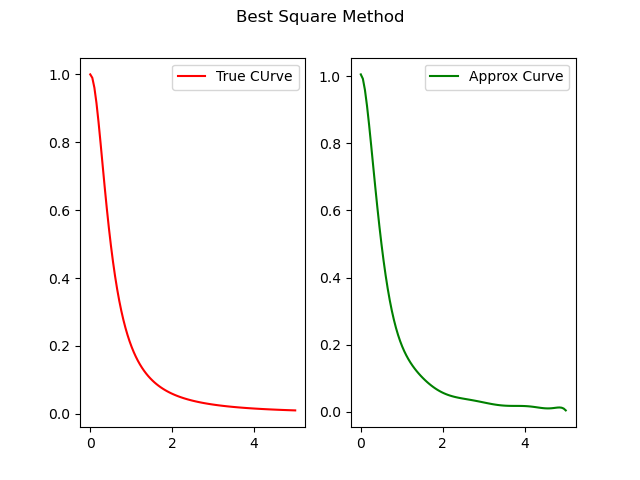
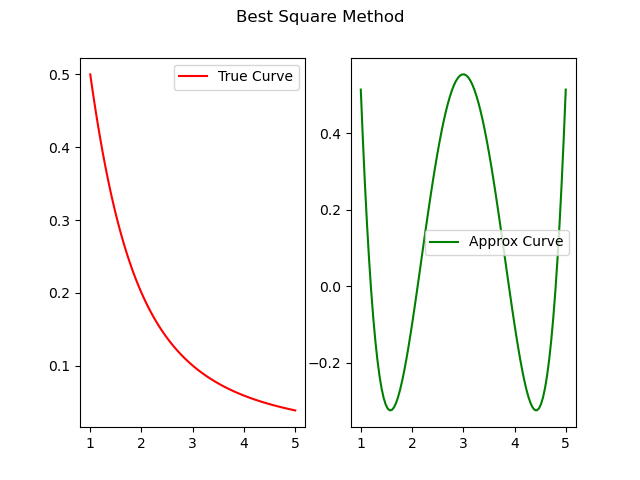
更新最小二乘法

diff --git a/example.py b/example.py
@@ -1,5 +1,7 @@
+from random import sample
 from approx import TargetFn
 from approx.best_square import BestSquare
+from approx.least_squares import LeastSquare
 import point
 import interp
 from draw import Drawer
@@ -109,17 +111,30 @@ def test_hermite():
 
 def test_best_square(a: float, b: float, c: int, k: int, n: int):
     best_square = BestSquare(k, a, b, c)
-    best_square.fit()
+    # best_square.fit()
+    best_square.legrand_fit()
     samples = point.random_x(a, b, n)
     target_fn = TargetFn(c)
     for sample in samples:
         std_val = target_fn.fn(sample)
-        app_val = best_square.cal(sample)
+        app_val = best_square.cal((1 / (b - a)) * (2 * sample - a - b))
         err = abs(std_val - app_val)
         print("标准函数计算的结果为：{}, 逼近函数计算的结果为: {}, 误差为: {}".format(std_val, app_val, err))
     drawer = Drawer()
-    drawer.cmp_draw(a, b, target_fn.fn, best_square.cal, 'Best Square Method')
+    drawer.legendre_cmp_draw(a, b, target_fn.fn, best_square.cal, 'Best Square Method')
 
+def test_least_square(a: float, b: float, c: int, n: int):
+    samples = point.approx_fixed_sample(n, a, b, c)
+    # print("samples: {}".format(samples))
+    # print(samples)
+    least_square = LeastSquare(a, b, c, samples)
+    least_square.fit()
+    other_samples = point.approx_random_sample(10, a, b, c)
+    for sample in other_samples:
+        std_val = sample.y
+        app_val = least_square.cal(sample.x)
+        err = abs(std_val - app_val)
+        print("标准函数计算的结果为：{}, 逼近函数计算的结果为: {}, 误差为: {}".format(std_val, app_val, err))
 
 
 def example():
@@ -128,7 +143,8 @@ def example():
     # test_newton()
     # test_piecelinear()
     # test_hermite()
-    test_best_square(0, 5, 4, 10, 10)
+    # test_best_square(1, 5, 1, 4, 10)
+    test_least_square(1, 5, 1, 5)
 
 if __name__ == '__main__':
     example()

diff --git a/approx/best_square.py b/approx/best_square.py
@@ -1,5 +1,7 @@
-import numpy as np 
-from . import inner_product_2, inner_product_3
+import numpy as np
+from scipy.special import legendre
+from scipy import integrate
+from . import TargetFn, inner_product, inner_product_2, inner_product_3, inner_product_4, mul_fn
 
 class BestSquare:
     def __init__(self, k: int, a: float, b: float, c: int):
@@ -9,6 +11,7 @@ class BestSquare:
         self.a = a
         self.b = b
         self.c = c
+        self.f = np.poly1d([0])
 
     def _make_matrix(self):
         # 建立矩阵
@@ -21,7 +24,17 @@ class BestSquare:
             self.right.append(res)
             self.left.append(row)
 
-
+    def legrand_fit(self):
+        # 使用勒让德多项式作为正交多项式进行拟合
+        self.coefficients = []
+        for i in range(0, self.k + 1):
+            (res, _) = integrate.quad(mul_fn, -1, 1, args=(legendre(i), self.c))
+            res *= ((2 * i + 1) / 2)
+            # print("i: {}, res: {}".format(i, res))
+            self.coefficients.append(res)
+        # print("勒让德多项式系数: {}".format(self.coefficients))
+        for i in range(0, self.k + 1):
+            self.f += (self.coefficients[i] * legendre(self.k - i))
 
     def fit(self):
         # 函数拟合，实际上就是根据次数解矩阵，最后把系数求出来

diff --git a/approx/least_squares.py b/approx/least_squares.py
@@ -1,0 +1,39 @@
+import re
+import numpy as np
+from typing import List
+from sys import path
+path.append('..')
+from point import Point
+
+class LeastSquare:
+    def __init__(self, a: float, b: float, c: int, samples: List[Point]):
+        self.a = a 
+        self.b = b
+        self.c = c
+        self.samples = samples
+        self.n = len(samples)
+
+    def fit(self):
+        A = []
+        B = []
+        # print("n: {}".format(self.n))
+        for i in range(0, self.n):
+            row = []
+            res = 0
+            for j in range(0, self.n):
+                for item in self.samples:
+                    # print("x: {}, i: {}, j: {}".format(item.x, i, j))
+                    res += pow(item.x, i + j)
+                row.append(res)
+            y = 0
+            for item in self.samples:
+                y += pow(item.x, i) * item.y
+            A.append(row)
+            B.append(y)
+        # print("A: {}, B: {}".format(A, B))
+        res = list(reversed(np.linalg.solve(A, B)))
+        f = np.poly1d(res)
+        self.f = f
+    
+    def cal(self, x):
+        return self.f(x)

diff --git a/draw.py b/draw.py
@@ -18,6 +18,20 @@ class Drawer:
         fig.suptitle(title)
         plt.savefig('image/{}.png'.format(title))
 
+    def legendre_cmp_draw(self, a: float, b: float, f1, f2, title: str):
+        x = np.linspace(a, b, 100)
+        y1 = [f1(item) for item in x]
+        y2 = [f2((1 / (b - a)) * (2 * item - a - b)) for item in x]
+        # y2 = [f2(item) for item in x]
+        fig, (ax1, ax2) = plt.subplots(1, 2, sharex=True)
+        ax1.plot(x, y1, label = 'True Curve', color = 'red')
+        ax1.legend()
+        ax2.plot(x, y2, label = 'Approx Curve', color = 'green')
+        ax2.legend()
+        fig.suptitle(title)
+        plt.savefig('image/{}.png'.format(title))
+
+
     def draw_interp(self, a: float, b: float, c: float, d: float, e: float, f: float, fn, title: str):
         x = np.linspace(a, b, 100)
         y1 = c * np.sin(d * x) + e * np.cos(f * x)

diff --git a/approx/__init__.py b/approx/__init__.py
@@ -1,4 +1,5 @@
 from scipy import integrate
+from scipy.special.orthogonal import legendre
 
 class TargetFn:
     def __init__(self, c):
@@ -23,6 +24,10 @@ def product_fn_2(x, pow_1, pow_2):
 def integral(fn, a: int, b: int):
     return integrate.quad(fn, a, b)
 
+def mul_fn(x: float, f, c: int):
+    target = TargetFn(c)
+    return target.fn(x) * f(x)
+
 # 求两函数内积
 def inner_product(f1, f2, a: int, b: int):
     fn = f1 * f2 
@@ -34,3 +39,7 @@ def inner_product_2(pow_0, a: int, b: int, c: int):
 def inner_product_3(pow_1, pow_2, a: int, b: int):
     f = product_fn_2
     return integrate.quad(f, a, b, args=(pow_1, pow_2))
+
+def inner_product_4(f, a: float, b: float, c: int):
+    return integrate.quad(mul_fn, a, b, args=(f, c))
+    

diff --git a/point.py b/point.py
@@ -54,3 +54,23 @@ def random_x(a: int, b: int, n: int):
         x = random.random() * (b - a) + a 
         x_axis.append(x)
     return x_axis
+
+def approx_fixed_sample(n: int, a: float, b: float, c: float):
+    points = []
+    step = (b - a) / n 
+    for i in range(n):
+        x = i * step + a 
+        y = 1 / ((c * x * x) + 1)
+        points.append(Point(x, y))
+    x = b 
+    y = 1 / ((c * x * x) + 1)
+    points.append(Point(x, y))
+    return points
+
+def approx_random_sample(n: int, a: float, b: float, c: float):
+    points = []
+    for _ in range(n):
+        x = a + random.random() * (b - a)
+        y = 1 / ((c * x * x) + 1)
+        points.append(Point(x, y))
+    return points

diff --git a/approx/legendre.py b/approx/legendre.py
@@ -1,0 +1,12 @@
+class Legendre:
+    def __init__(self, n: int):
+        self.n = n 
+
+    def fn(self, x):
+        # 递归定义的勒让德多项式
+        if self.n == 0:
+            return 1
+        elif self.n == 1:
+            return x
+        else:
+            return (((2 * self.n) - 1) * x * self.fn(self.n - 1, x) - (self.n - 1) * self.fn(self.n - 2, x)) / float(self.n)
